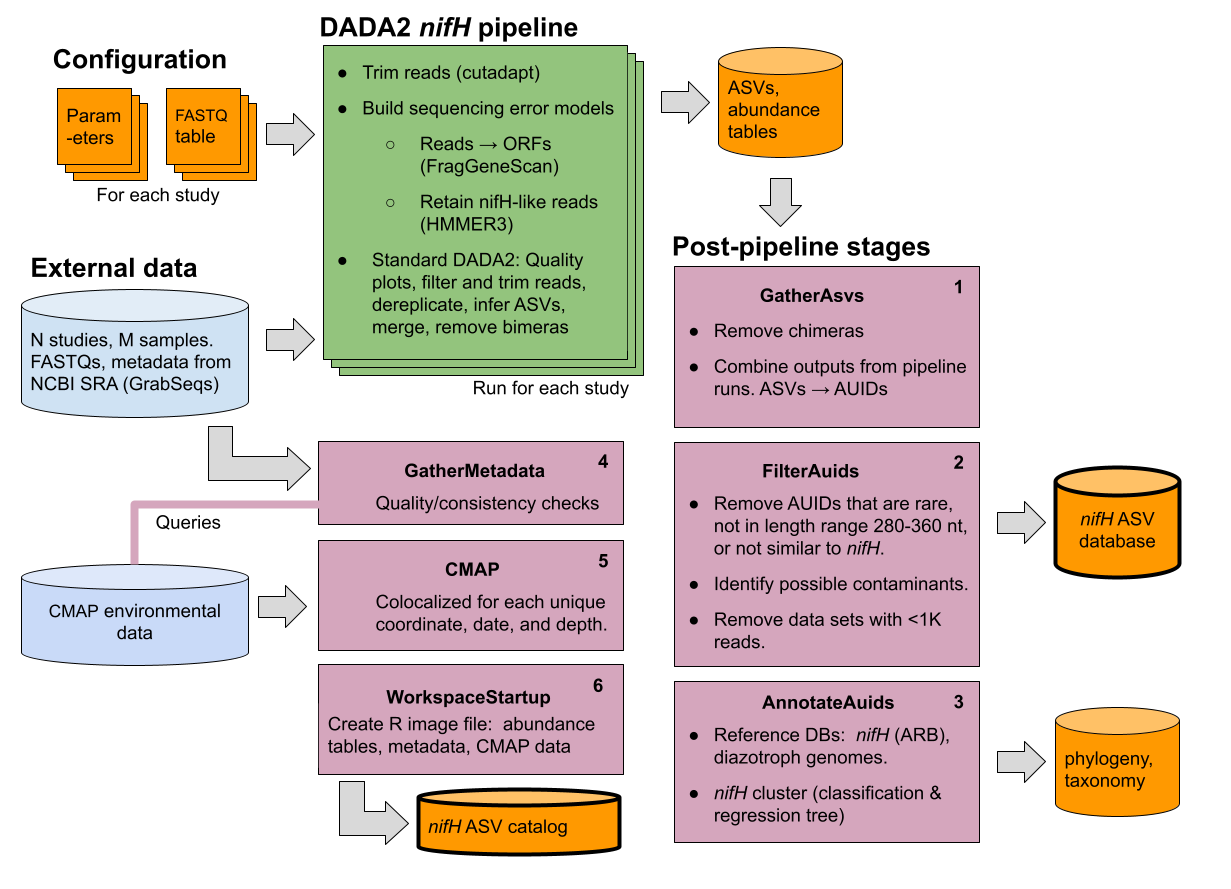
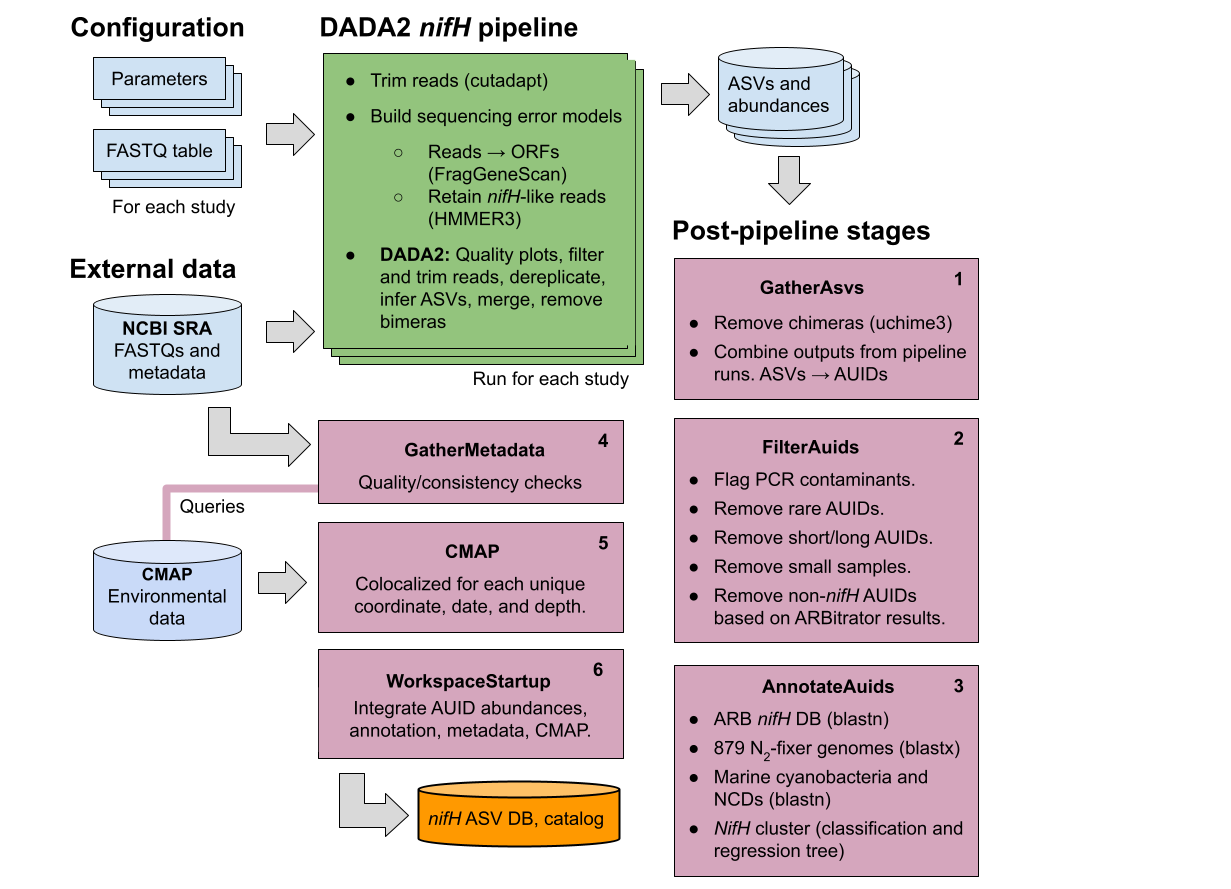
(1) New overview fig. (2) Installation docs which describe creation of the nifH_ASV_workflow environment.

Changed region(s): [[0.0, 0.0304, 0.9878, 1.0], [0.0309, 0.0, 0.2161, 0.243]]

diff --git a/README.md b/README.md
@@ -8,20 +8,22 @@ This repository contains all post-pipeline software stages and data deliverables
 
 The following figure shows the workflow:
 ![Overview of DADA2 niH workflow](images_for_readme/workflow_overview.png)
-[DADA2](https://benjjneb.github.io/dada2/) ASVs were created by our [DADA2 _nifH_ pipeline](https://github.com/jdmagasin/nifH_amplicons_DADA2) (green). Post-pipeline stages (lavender), each executed by a Makefile, were used to gather the ASVs from all studies, filter the ASVs for quality, and annotate them.  The two main data resources generated by the workflow, the _nifH_ ASV database and the _nifH_ ASV catalog, will support future research into N<sub>2</sub>-fixing marine microbes.
+[DADA2](https://benjjneb.github.io/dada2/) ASVs were created by our [DADA2 _nifH_ pipeline](https://github.com/jdmagasin/nifH_amplicons_DADA2) (green). Post-pipeline stages (lavender), each executed by a Makefile, were used to gather the ASVs from all studies, filter the ASVs for quality, and annotate them.  The two main data resources generated by the workflow, the _nifH_ ASV database and the _nifH_ ASV catalog, will support future research into N<sub>2</sub>-fixing marine microbes.  They are also available at [10.6084/m9.figshare.23795943](10.6084/m9.figshare.23795943).
 
 
 ## Running the workflow
 
-The workflow requires the [DADA2 _nifH_ pipeline](https://github.com/jdmagasin/nifH_amplicons_DADA2) as well as its ancillary tools.  Please see the Installation directory in the pipeline repository.  Additionally you will need to install GNU make to run the post-pipeline stages, each of which uses a Makefile.
+The workflow requires the [DADA2 _nifH_ pipeline](https://github.com/jdmagasin/nifH_amplicons_DADA2) as well as its ancillary tools.  Please see the Installation directory in the pipeline repository.  Additionally you will need to install GNU make to run the post-pipeline stages, each of which uses a Makefile.  Please see the [Installation instructions](Installation/INSTALL.txt).
 
 The DADA2 _nifH_ pipeline outputs for all studies are provided in the Data directory.  You do not need to run the pipeline.  However, if you wish to run the pipeline, the parameters files used for each study are included in Data.  You are free to modify them.
 
 Each of the post-pipeline stages 1 through 6 can be run -- in order -- by entering the associated directory and running "make" from your shell's command line.  For example, if I wanted to run the GatherAsvs stage I would do the following from the command line:
 
-    (base) [jmagasin@thalassophile]$ conda activate DADA2_nifH
-    (DADA2_nifH) [jmagasin@thalassophile]$ cd GatherAsvs
-    (DADA2_nifH) [jmagasin@thalassophile]$ make &> log.18July2023.txt &
+```bash session
+(base) [jmagasin@thalassa]$ conda activate DADA2_nifH
+(DADA2_nifH) [jmagasin@thalassa]$ cd GatherAsvs
+(DADA2_nifH) [jmagasin@thalassa]$ make &> log.18July2023.txt &
+```
 
 Here I am using a BASH shell (recommended).  It is critical that the DADA2_nifH environment was activated sometime before running the stage.  The active environment is shown in parentheses at the start of the prompt.  Finally, I make the stage, saving the Makefile messages to a log file.  I run the process in the background (the trailing &) because most stages take at least a few minutes to complete.
 
